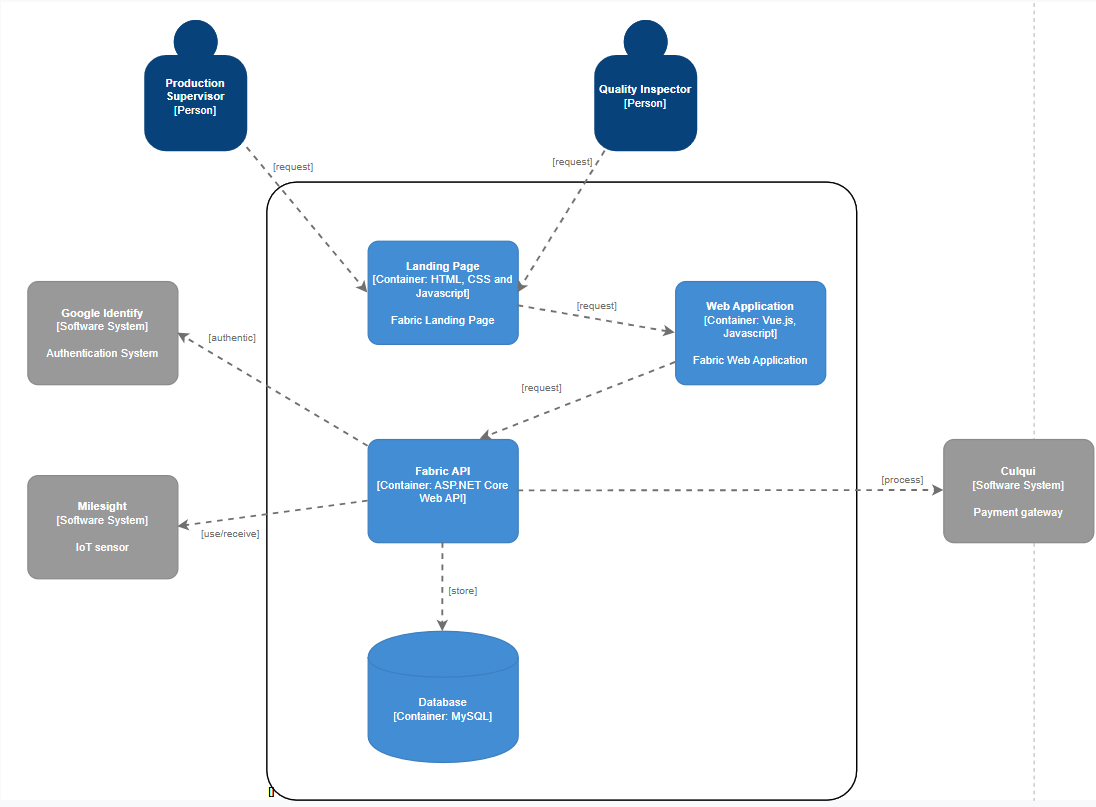
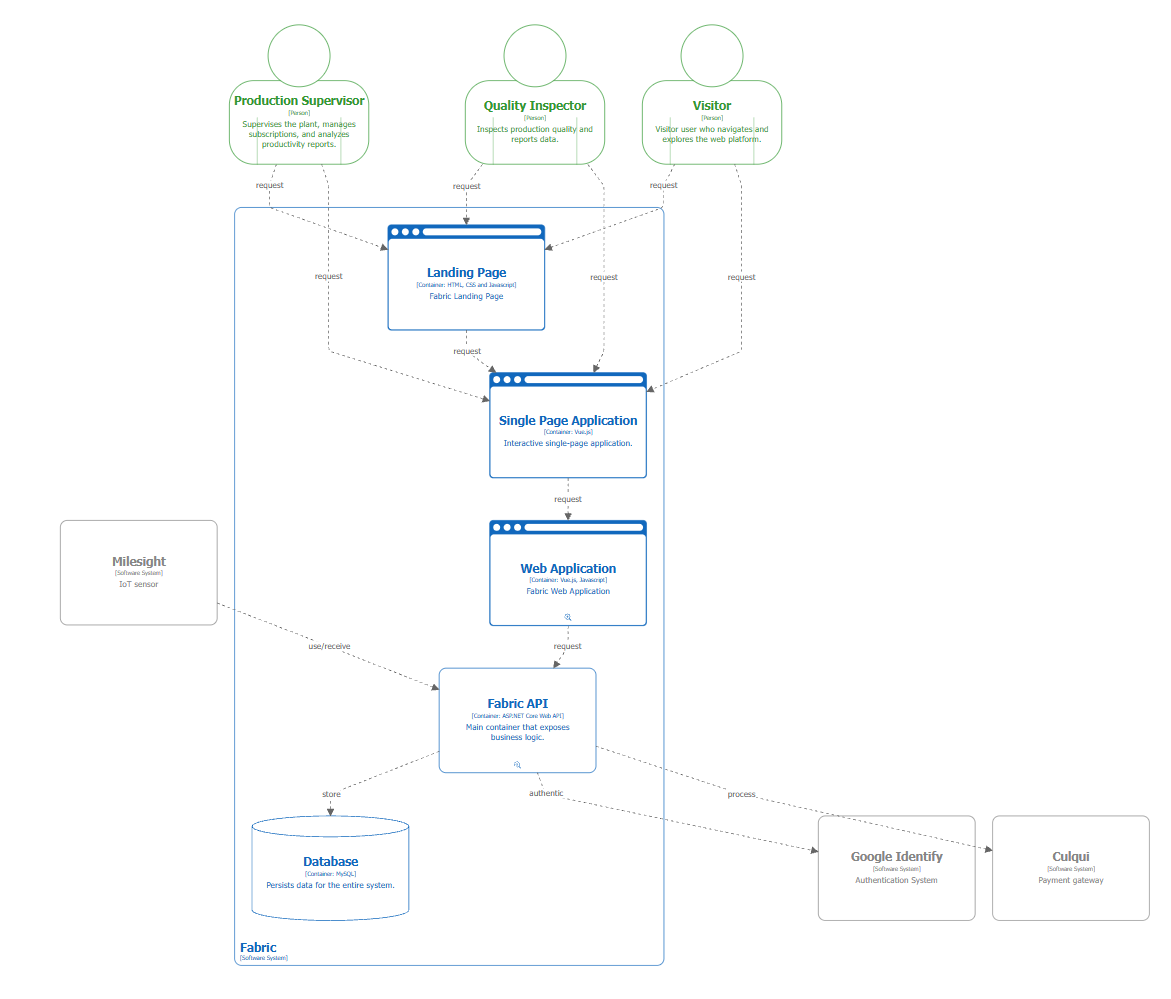
c4 diagram and descriptions modified

diff --git a/front-matter/46-domain-driven.md b/front-matter/46-domain-driven.md
@@ -42,7 +42,7 @@ El diagrama de contexto presenta a Fabric como un sistema central que interactú
 
 ### 4.6.3. Software Architecture Container Diagram
 
-Fabric está compuesto por un solo contenedor monolítico, el cual está conformado por: Landing Page (HTML, CSS y JavaScript) que presenta la propuesta de valor y capta leads; la Web Application (Vue.js) que muestra todas las funcionalidades, Fabric API que concentra la lógica de negocio organizada en seis bounded contexts (Auth, Production Tracking, Quality Management, Machine Registry, Subscription & Payment, Reporting & Analytics); y la Base de Datos. El sistema se integra con tres servicios externos: Culqi (pasarela de pagos peruana), Google Identify (notificaciones por correo) y un Sensor IoT Milesight (lecturas de temperatura y humedad vía MQTT). Los actores acceden al sistema mediante HTTPS, mientras que los módulos internos se comunican entre sí y persisten datos en la base de datos, dando soporte a los procesos de producción y control de calidad de las MYPE textiles.
+Este diagrama descompone el sistema Fabric en sus principales unidades desplegables o contenedores. En él se distinguen dos contenedores públicos: la Landing Page, que actúa como sitio de presentación, y la Single Page Application (SPA), que ofrece una experiencia interactiva a los visitantes. Para los usuarios internos, como el Supervisor de Producción y el Inspector de Calidad, se dispone de la Web Application, desarrollada en Vue.js. Esta aplicación se comunica con el Fabric API, un backend en ASP.NET Core que centraliza la lógica de negocio. A su vez, el API se apoya en una base de datos MySQL para la persistencia y se integra con sistemas externos como Google Identity, Culqui y Milesight. El flujo de comunicación se aprecia con claridad: los actores acceden a las interfaces web, estas consumen el API, y el API gestiona tanto la lógica como la comunicación con la base de datos y los servicios de terceros.
 
 <div align="center">
     <img src="../assets/domain_c4/container_diagram.png" alt="diagrama de contexto" witdh="500">
@@ -50,14 +50,22 @@ Fabric está compuesto por un solo contenedor monolítico, el cual está conform
 
 <br>
 
-### 4.6.4. Software Architecture Component Diagram
+### 4.6.4. Software Architecture Components Diagrams
 
-La arquitectura interna de Fabric, representada mediante el diagrama de componentes, está estructurada como un conjunto de módulos desarrollados en ASP.NET Core Web API, los cuales residen dentro del contenedor Fabric API y mantienen comunicación con distintos servicios y sistemas externos. En el centro de esta solución, los módulos principales Machine Registry, Quality Management, Production Tracking y Reporting and Analytics se encargan de coordinar la lógica del negocio, interactuando entre sí y apoyándose en un componente compartido de Database Connection que almacena la información en una base de datos MySQL. Por otro lado, el módulo Subscription and Payment establece conexión con la pasarela de pagos Culqui para gestionar las transacciones, mientras Auth and User Management administra la autenticación de los usuarios a través de Google Identify. Finalmente, con el propósito de capturar e integrar datos en tiempo real provenientes de la planta textil, el componente de gestión de calidad se comunica con los sensores IoT de Milesight, permitiendo el envío y la recepción de información operativa.
+El primer diagrama detalla la estructura interna del contenedor Fabric API. Aquí se visualizan los componentes modulares que dan soporte a la lógica de negocio, como Auth and User Management, Machine Registry, Quality Management, Production Tracking, Reporting & Analytics, Subscription and Payment, y el componente central Database Connection. El diagrama muestra cómo la Web Application externa consume estos componentes a través de peticiones JSON/HTTPS, cómo interactúan entre ellos, y cómo se comunican con los sistemas externos y la base de datos a través de la capa de conexión.
 
 <div align="center">
-    <img src="../assets/domain_c4/component_diagram.png" alt="diagrama de componente reports and analytics" witdh="500">
+    <img src="../assets/domain_c4/components_diagram1.png" alt="diagrama de componente FabricAPI" witdh="500">
 </div>
 
 <br>
 <br>
 
+El segundo diagrama desglosa la estructura interna del contenedor Web Application, desarrollado en Vue.js. Muestra los componentes de la interfaz de usuario divididos por dominios o Bounded Contexts: Auth & User UI, Machine Registry UI, Quality Management UI, Production Tracking UI, Reporting & Analytics UI y Subscription & Payment UI. El diagrama ilustra cómo la Single Page Application (SPA) externa consume estos componentes de UI, y cómo cada uno de ellos se comunica directamente con el contenedor Fabric API para obtener o enviar datos.
+
+<div align="center">
+    <img src="../assets/domain_c4/components_diagram2.png" alt="diagrama de componente WebApplication" witdh="500">
+</div>
+
+<br>
+<br>
